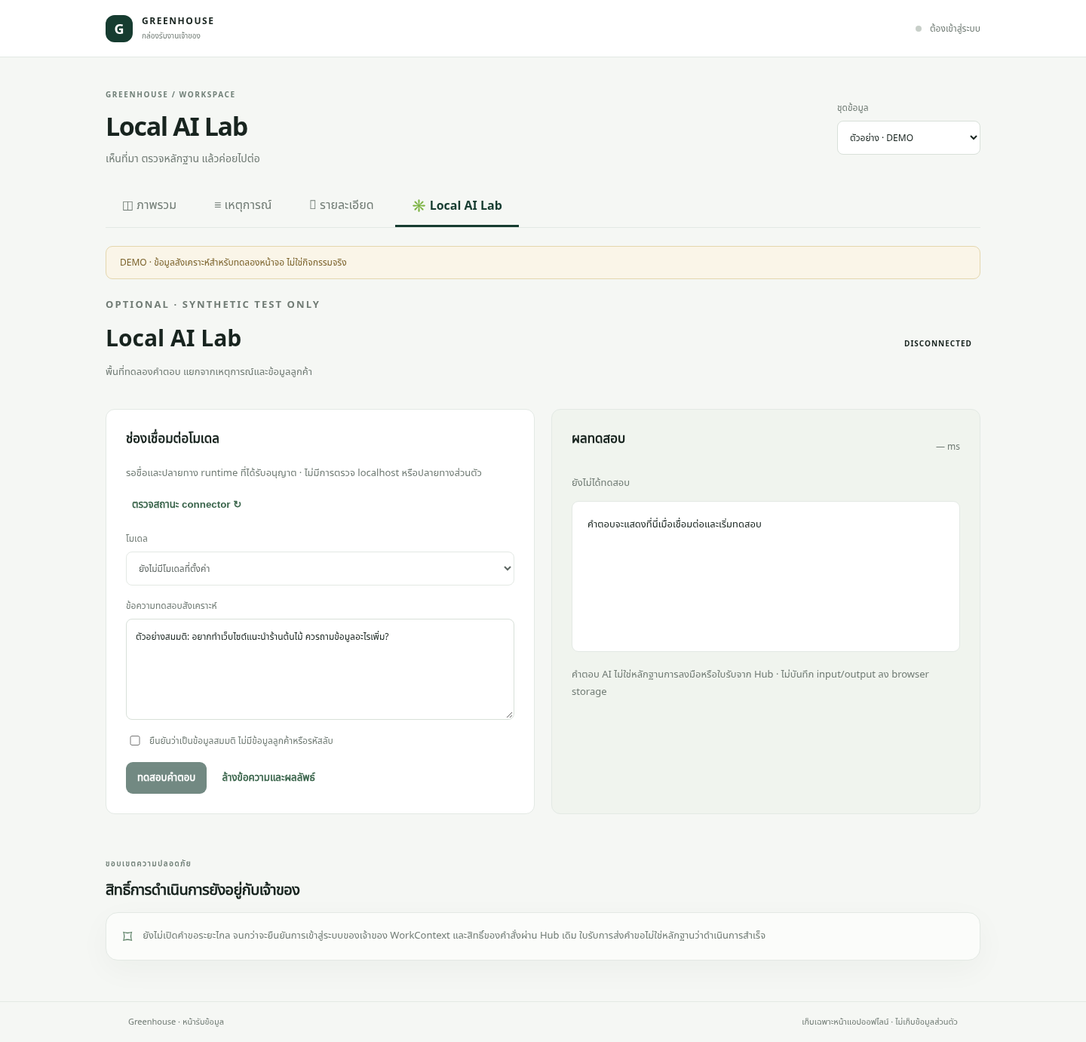
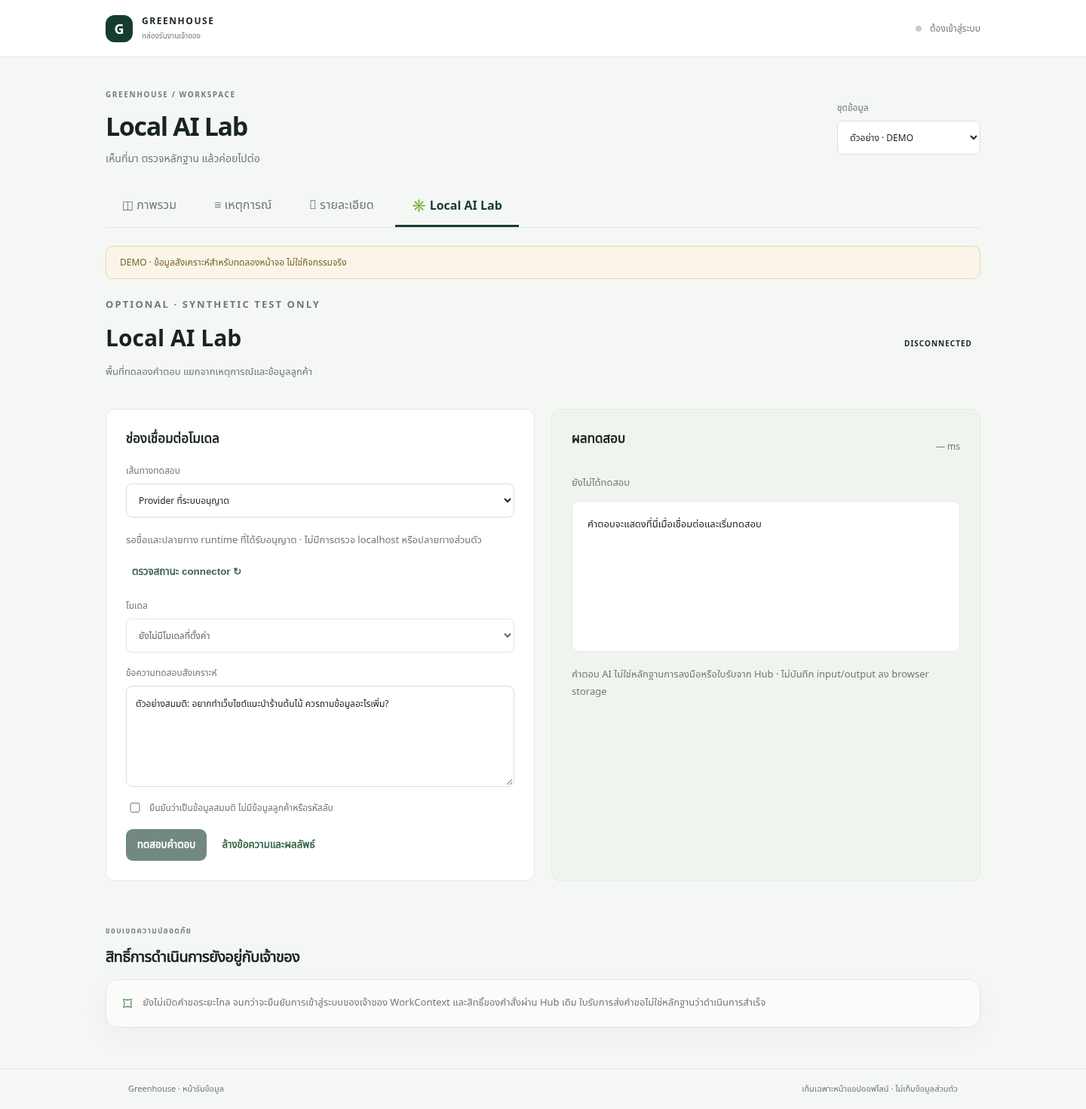
Add consent-gated Android loopback compatibility test path

diff --git a/docs/workspace-ui/preview.html b/docs/workspace-ui/preview.html
@@ -51,13 +51,80 @@
     <section data-panel="detail" hidden><div id="event-detail"></div></section>
     <section data-panel="ai" hidden>
       <div class="lab-heading"><div><p class="eyebrow">OPTIONAL · SYNTHETIC TEST ONLY</p><h2>Local AI Lab</h2><p>พื้นที่ทดลองคำตอบ แยกจากเหตุการณ์และข้อมูลลูกค้า</p></div><span class="pill" id="ai-state">DISCONNECTED</span></div>
-      <div class="lab-grid"><form id="ai-form" class="lab-card"><h3>ช่องเชื่อมต่อโมเดล</h3><p id="ai-connection">รอชื่อและปลายทาง runtime ที่ได้รับอนุญาต · ยังไม่มีการติดต่อเครื่องใด</p><button type="button" class="text-button" id="ai-refresh">ตรวจสถานะ connector ↻</button><label>โมเดล<select id="ai-model" disabled><option value="">ยังไม่มีโมเดลที่ตั้งค่า</option></select></label><label>ข้อความทดสอบสังเคราะห์<textarea id="ai-input" rows="5" maxlength="2000">ตัวอย่างสมมติ: อยากทำเว็บไซต์แนะนำร้านต้นไม้ ควรถามข้อมูลอะไรเพิ่ม?</textarea></label><label class="checkbox-label"><input id="ai-synthetic" type="checkbox"> ยืนยันว่าเป็นข้อมูลสมมติ ไม่มีข้อมูลลูกค้าหรือรหัสลับ</label><div class="lab-actions"><button class="button" id="ai-run" disabled>ทดสอบคำตอบ</button><button class="text-button" type="button" id="ai-clear">ล้างข้อความและผลลัพธ์</button></div></form><div class="lab-card output-card"><div class="panel-heading"><h3>ผลทดสอบ</h3><span id="ai-time">— ms</span></div><p id="ai-result-status" role="status">ยังไม่ได้ทดสอบ</p><pre id="ai-output">คำตอบจะแสดงที่นี่เมื่อเชื่อมต่อและเริ่มทดสอบ</pre><p class="boundary-note">คำตอบ AI ไม่ใช่หลักฐานการลงมือหรือใบรับจาก Hub · ไม่บันทึก input/output ลง browser storage</p></div></div>
+      <div class="lab-grid"><form id="ai-form" class="lab-card"><h3>ช่องเชื่อมต่อโมเดล</h3><label>เส้นทางทดสอบ<select id="ai-route"><option value="provider">Provider ที่ระบบอนุญาต</option><option value="device">HERMES บนอุปกรณ์นี้ · loopback</option></select></label><div id="device-config" hidden><p class="data-banner">ข้อมูลจากหน้าจอเจ้าของ: HERMES-R5 RUNNING · Android CPU · loopback-only · ยังไม่ทดสอบการเชื่อมต่อจากหน้านี้</p><dl><dt>ปลายทางที่เจ้าของระบุ</dt><dd><code>http://localhost:8000/v1</code></dd></dl><p>ต้องเปิดหน้านี้ในเบราว์เซอร์บน Android เครื่องเดียวกับ HERMES เท่านั้น ไม่มีการเรียกผ่าน Cloudflare</p><label>รูปแบบ API ที่ต้องการทดลอง<select id="device-protocol"><option value="">ยังไม่ยืนยัน protocol</option><option value="chat-completions-compatible">ทดลอง Chat Completions-compatible</option></select></label><label>Model ID ตาม API ของ runtime<input id="device-model" maxlength="120" autocomplete="off" placeholder="ระบุเมื่อยืนยัน Model ID แล้ว"></label><label class="checkbox-label"><input type="checkbox" id="device-confirm"> ยอมรับว่า /v1 อย่างเดียวไม่ยืนยัน protocol และจะทดสอบข้อมูลสมมติบนเครื่องนี้เท่านั้น</label><p>ไม่มีการสแกน /models หรือปลายทางอื่น · HTTPS → HTTP loopback อาจถูกเบราว์เซอร์ปฏิเสธ ต้องใช้สิทธิ์อุปกรณ์ที่รองรับตามปกติ ห้ามปิดระบบรักษาความปลอดภัยเพื่อฝืนเชื่อมต่อ</p></div><p id="ai-connection">รอชื่อและปลายทาง runtime ที่ได้รับอนุญาต · ยังไม่มีการติดต่อเครื่องใด</p><button type="button" class="text-button" id="ai-refresh">ตรวจสถานะ connector ↻</button><label>โมเดล<select id="ai-model" disabled><option value="">ยังไม่มีโมเดลที่ตั้งค่า</option></select></label><label>ข้อความทดสอบสังเคราะห์<textarea id="ai-input" rows="5" maxlength="2000">ตัวอย่างสมมติ: อยากทำเว็บไซต์แนะนำร้านต้นไม้ ควรถามข้อมูลอะไรเพิ่ม?</textarea></label><label class="checkbox-label"><input id="ai-synthetic" type="checkbox"> ยืนยันว่าเป็นข้อมูลสมมติ ไม่มีข้อมูลลูกค้าหรือรหัสลับ</label><div class="lab-actions"><button class="button" id="ai-run" disabled>ทดสอบคำตอบ</button><button class="text-button" type="button" id="ai-cancel" hidden>ยกเลิกการทดสอบ</button><button class="text-button" type="button" id="ai-clear">ล้างข้อความและผลลัพธ์</button></div></form><div class="lab-card output-card"><div class="panel-heading"><h3>ผลทดสอบ</h3><span id="ai-time">— ms</span></div><p id="ai-result-status" role="status">ยังไม่ได้ทดสอบ</p><pre id="ai-output">คำตอบจะแสดงที่นี่เมื่อเชื่อมต่อและเริ่มทดสอบ</pre><p class="boundary-note">คำตอบ AI ไม่ใช่หลักฐานการลงมือหรือใบรับจาก Hub · ไม่บันทึก input/output ลง browser storage</p></div></div>
     </section>
     <section class="section-head"><div><p class="eyebrow">ขอบเขตความปลอดภัย</p><h2>สิทธิ์การดำเนินการยังอยู่กับเจ้าของ</h2></div></section>
     <section class="safety"><span aria-hidden="true">⌑</span><p>ยังไม่เปิดคำขอระยะไกล จนกว่าจะยืนยันการเข้าสู่ระบบของเจ้าของ WorkContext และสิทธิ์ของคำสั่งผ่าน Hub เดิม ใบรับการส่งคำขอไม่ใช่หลักฐานว่าดำเนินการสำเร็จ</p></section>
   </main>
   <footer><span>Greenhouse · หน้ารับข้อมูล</span><span>เก็บเฉพาะหน้าแอปออฟไลน์ · ไม่เก็บข้อมูลส่วนตัว</span></footer>
   <script>globalThis.fetch=async(url)=>new Response(JSON.stringify(String(url).endsWith('/local-ai')?{configured:false,models:[],state:'DISCONNECTED'}:String(url).endsWith('/status')?{ownerSession:false,inboxReader:false}:{code:'OFFLINE_PREVIEW_ONLY'}),{status:String(url).includes('/requests/')?503:200,headers:{'content-type':'application/json'}});(() => {
+  // greenhouse/device-ai.mjs
+  var DEVICE_AI_BASE = "http://localhost:8000/v1";
+  var failure = (code, reachable = false) => Object.assign(new Error(code), { code, reachable });
+  async function testDeviceAI({ model, text: text2, protocol, syntheticOnly, protocolConfirmed, signal, fetchImpl = fetch, timeoutMs = 1e4 } = {}) {
+    if (protocol !== "chat-completions-compatible" || protocolConfirmed !== true || syntheticOnly !== true || typeof model !== "string" || !model.trim() || model.length > 120 || typeof text2 !== "string" || !text2.trim() || text2.length > 2e3) throw failure("DEVICE_CONFIG_REQUIRED");
+    const controller = new AbortController();
+    let timedOut = false;
+    const cancel = () => controller.abort();
+    if (signal?.aborted) throw failure("CANCELLED");
+    signal?.addEventListener("abort", cancel, { once: true });
+    const timer = setTimeout(() => {
+      timedOut = true;
+      controller.abort();
+    }, timeoutMs);
+    let reachable = false;
+    try {
+      const response = await fetchImpl(DEVICE_AI_BASE + "/chat/completions", {
+        method: "POST",
+        mode: "cors",
+        credentials: "omit",
+        redirect: "error",
+        cache: "no-store",
+        referrerPolicy: "no-referrer",
+        headers: { "content-type": "application/json" },
+        signal: controller.signal,
+        body: JSON.stringify({ model: model.trim(), messages: [{ role: "user", content: text2.trim() }], stream: false, max_tokens: 256 })
+      });
+      reachable = true;
+      if (!response.ok) throw failure("DEVICE_HTTP_" + response.status, true);
+      const reader = response.body?.getReader();
+      if (!reader) throw failure("DEVICE_PROTOCOL_UNVERIFIED", true);
+      let raw = "", size = 0;
+      const decoder = new TextDecoder();
+      try {
+        for (; ; ) {
+          const { value, done } = await reader.read();
+          if (done) break;
+          size += value.byteLength;
+          if (size > 65536) {
+            await reader.cancel();
+            throw failure("DEVICE_RESPONSE_TOO_LARGE", true);
+          }
+          raw += decoder.decode(value, { stream: true });
+        }
+        raw += decoder.decode();
+      } finally {
+        reader.releaseLock();
+      }
+      let body;
+      try {
+        body = JSON.parse(raw);
+      } catch {
+        throw failure("DEVICE_PROTOCOL_UNVERIFIED", true);
+      }
+      const content = body?.choices?.[0]?.message?.content;
+      if (typeof content !== "string" || !content.trim() || content.length > 4e3) throw failure("DEVICE_PROTOCOL_UNVERIFIED", true);
+      return { reply: content, modelStatus: "RESPONDED", executed: false, reachable: true, model: model.trim(), syntheticOnly: true };
+    } catch (error) {
+      if (controller.signal.aborted) throw failure(timedOut ? "TIMEOUT" : "CANCELLED", reachable);
+      if (error.code?.startsWith("DEVICE_")) throw error;
+      throw failure("DEVICE_BLOCKED_OR_UNREACHABLE", reachable);
+    } finally {
+      clearTimeout(timer);
+      signal?.removeEventListener("abort", cancel);
+    }
+  }
+
   // greenhouse/workspace-model.mjs
   var demoEvents = [
     { title: "\u0E04\u0E33\u0E02\u0E2D\u0E40\u0E27\u0E47\u0E1A\u0E44\u0E0B\u0E15\u0E4C\u0E15\u0E31\u0E27\u0E2D\u0E22\u0E48\u0E32\u0E07", sourceEventId: "demo-event-001", correlationId: "demo-request-001", category: "REQUEST_SUBMITTED", ownerSource: "demo-shop", occurredAt: "2026-10-23T08:15:00.000Z", persistedAt: "2026-10-23T08:15:00.000Z", evidence: ["demo://request-001/submitted"], receiptStatus: "MISSING", evidenceScope: "DEMO", freshness: "UNKNOWN" },
@@ -87,6 +154,7 @@
   var aiConfig = null;
   var aiBusy = false;
   var readSequence = 0;
+  var aiController = null;
   var items = () => mode === "demo" ? demoEvents : liveItems;
   var format = (value) => Number.isFinite(Date.parse(value)) ? new Date(value).toLocaleString("th-TH", { dateStyle: "medium", timeStyle: "short" }) : "\u0E22\u0E31\u0E07\u0E44\u0E21\u0E48\u0E21\u0E35\u0E02\u0E49\u0E2D\u0E21\u0E39\u0E25";
   function view(name) {
@@ -170,8 +238,24 @@
     }
   });
   function updateRun() {
-    $("#ai-run").disabled = aiBusy || !aiConfig?.configured || !aiConfig?.csrfToken || !$("#ai-synthetic").checked || !$("#ai-model").value || !$("#ai-input").value.trim();
+    const device = $("#ai-route").value === "device";
+    const ready = device ? $("#device-protocol").value === "chat-completions-compatible" && $("#device-confirm").checked && $("#device-model").value.trim() : aiConfig?.configured && aiConfig?.csrfToken && $("#ai-model").value;
+    $("#ai-run").disabled = aiBusy || !ready || !$("#ai-synthetic").checked || !$("#ai-input").value.trim();
   }
+  function deviceMode() {
+    const device = $("#ai-route").value === "device";
+    $("#device-config").hidden = !device;
+    $("#ai-refresh").hidden = device;
+    $("#ai-model").closest("label").hidden = device;
+    if (device) {
+      $("#ai-state").textContent = "DEVICE \xB7 PROTOCOL UNVERIFIED";
+      $("#ai-connection").textContent = "\u0E2A\u0E16\u0E32\u0E19\u0E30\u0E01\u0E32\u0E23\u0E40\u0E0A\u0E37\u0E48\u0E2D\u0E21\u0E15\u0E48\u0E2D\u0E08\u0E32\u0E01\u0E40\u0E1A\u0E23\u0E32\u0E27\u0E4C\u0E40\u0E0B\u0E2D\u0E23\u0E4C: \u0E22\u0E31\u0E07\u0E44\u0E21\u0E48\u0E17\u0E14\u0E2A\u0E2D\u0E1A \xB7 \u0E2A\u0E16\u0E32\u0E19\u0E30 RUNNING \u0E21\u0E32\u0E08\u0E32\u0E01\u0E2B\u0E19\u0E49\u0E32\u0E08\u0E2D\u0E40\u0E08\u0E49\u0E32\u0E02\u0E2D\u0E07 \u0E44\u0E21\u0E48\u0E43\u0E0A\u0E48 health check";
+    } else aiStatus();
+    updateRun();
+  }
+  $("#ai-route").addEventListener("change", deviceMode);
+  for (const selector of ["#device-protocol", "#device-model", "#device-confirm"]) $(selector).addEventListener("input", updateRun);
+  $("#ai-cancel").addEventListener("click", () => aiController?.abort());
   async function aiStatus() {
     $("#ai-refresh").disabled = true;
     aiConfig = null;
@@ -212,31 +296,51 @@
     event.preventDefault();
     if ($("#ai-run").disabled) return;
     aiBusy = true;
+    aiController = new AbortController();
     updateRun();
     $("#ai-clear").disabled = true;
     $("#ai-refresh").disabled = true;
-    $("#ai-result-status").textContent = "\u0E01\u0E33\u0E25\u0E31\u0E07\u0E17\u0E14\u0E2A\u0E2D\u0E1A\u2026";
-    $("#ai-output").textContent = "\u0E23\u0E2D\u0E04\u0E33\u0E15\u0E2D\u0E1A\u0E08\u0E32\u0E01 provider \u0E17\u0E35\u0E48\u0E44\u0E14\u0E49\u0E23\u0E31\u0E1A\u0E2D\u0E19\u0E38\u0E0D\u0E32\u0E15";
+    $("#ai-route").disabled = true;
+    $("#ai-cancel").hidden = false;
+    $("#ai-result-status").textContent = "\u0E01\u0E33\u0E25\u0E31\u0E07\u0E17\u0E14\u0E2A\u0E2D\u0E1A inference\u2026";
+    $("#ai-output").textContent = "\u0E22\u0E31\u0E07\u0E44\u0E21\u0E48\u0E21\u0E35\u0E04\u0E33\u0E15\u0E2D\u0E1A \xB7 \u0E01\u0E32\u0E23\u0E40\u0E23\u0E34\u0E48\u0E21\u0E17\u0E14\u0E2A\u0E2D\u0E1A\u0E44\u0E21\u0E48\u0E43\u0E0A\u0E48\u0E01\u0E32\u0E23\u0E22\u0E37\u0E19\u0E22\u0E31\u0E19\u0E27\u0E48\u0E32\u0E40\u0E0A\u0E37\u0E48\u0E2D\u0E21\u0E15\u0E48\u0E2D\u0E41\u0E25\u0E49\u0E27";
     const started = performance.now();
+    let timeout, providerTimedOut = false;
     try {
-      const response = await fetch("/api/greenhouse/local-ai", { method: "POST", credentials: "same-origin", cache: "no-store", headers: { "content-type": "application/json", "x-csrf-token": aiConfig.csrfToken }, body: JSON.stringify({ model: $("#ai-model").value, text: $("#ai-input").value, syntheticOnly: true }), signal: AbortSignal.timeout(12e3) });
-      const body = await response.json();
-      if (!response.ok) throw Error("TEST_UNAVAILABLE");
+      let body;
+      if ($("#ai-route").value === "device") {
+        body = await testDeviceAI({ model: $("#device-model").value, text: $("#ai-input").value, protocol: $("#device-protocol").value, protocolConfirmed: $("#device-confirm").checked, syntheticOnly: $("#ai-synthetic").checked, signal: aiController.signal });
+        $("#ai-connection").textContent = "\u0E44\u0E14\u0E49\u0E23\u0E31\u0E1A HTTP response \u0E41\u0E25\u0E30\u0E04\u0E33\u0E15\u0E2D\u0E1A\u0E15\u0E32\u0E21\u0E23\u0E39\u0E1B\u0E41\u0E1A\u0E1A\u0E17\u0E35\u0E48\u0E40\u0E25\u0E37\u0E2D\u0E01\u0E08\u0E32\u0E01 loopback \u0E1A\u0E19\u0E2D\u0E38\u0E1B\u0E01\u0E23\u0E13\u0E4C\u0E19\u0E35\u0E49 \xB7 \u0E44\u0E21\u0E48\u0E43\u0E0A\u0E48\u0E2B\u0E25\u0E31\u0E01\u0E10\u0E32\u0E19\u0E01\u0E32\u0E23\u0E25\u0E07\u0E21\u0E37\u0E2D";
+      } else {
+        timeout = setTimeout(() => {
+          providerTimedOut = true;
+          aiController.abort();
+        }, 12e3);
+        const response = await fetch("/api/greenhouse/local-ai", { method: "POST", credentials: "same-origin", cache: "no-store", headers: { "content-type": "application/json", "x-csrf-token": aiConfig.csrfToken }, body: JSON.stringify({ model: $("#ai-model").value, text: $("#ai-input").value, syntheticOnly: true }), signal: aiController.signal });
+        body = await response.json();
+        if (!response.ok) throw Error("TEST_UNAVAILABLE");
+      }
       if (typeof body.reply !== "string" || typeof body.modelStatus !== "string" || body.executed !== false) throw Error("TEST_INVALID");
       $("#ai-output").textContent = body.reply;
       $("#ai-result-status").textContent = body.modelStatus === "RESPONDED" ? "\u0E42\u0E21\u0E40\u0E14\u0E25\u0E15\u0E2D\u0E1A\u0E41\u0E25\u0E49\u0E27 \xB7 \u0E44\u0E21\u0E48\u0E43\u0E0A\u0E48\u0E1C\u0E25\u0E01\u0E32\u0E23\u0E25\u0E07\u0E21\u0E37\u0E2D" : body.modelStatus + " \xB7 \u0E04\u0E33\u0E15\u0E2D\u0E1A\u0E2A\u0E33\u0E23\u0E2D\u0E07\u0E08\u0E32\u0E01 policy \u0E44\u0E21\u0E48\u0E43\u0E0A\u0E48\u0E04\u0E33\u0E15\u0E2D\u0E1A\u0E42\u0E21\u0E40\u0E14\u0E25";
       $("#ai-state").textContent = body.modelStatus;
       $("#overview-ai").textContent = body.modelStatus === "RESPONDED" ? "\u0E15\u0E2D\u0E1A\u0E43\u0E19\u0E01\u0E32\u0E23\u0E17\u0E14\u0E2A\u0E2D\u0E1A\u0E41\u0E25\u0E49\u0E27" : "\u0E43\u0E0A\u0E49\u0E04\u0E33\u0E15\u0E2D\u0E1A\u0E2A\u0E33\u0E23\u0E2D\u0E07";
     } catch (error) {
-      $("#ai-result-status").textContent = error.name === "TimeoutError" ? "TIMEOUT \xB7 \u0E42\u0E21\u0E40\u0E14\u0E25\u0E22\u0E31\u0E07\u0E44\u0E21\u0E48\u0E15\u0E2D\u0E1A" : "ERROR \xB7 \u0E22\u0E31\u0E07\u0E22\u0E37\u0E19\u0E22\u0E31\u0E19\u0E1C\u0E25\u0E17\u0E14\u0E2A\u0E2D\u0E1A\u0E44\u0E21\u0E48\u0E44\u0E14\u0E49";
-      $("#ai-output").textContent = "\u0E25\u0E2D\u0E07\u0E43\u0E2B\u0E21\u0E48\u0E2B\u0E25\u0E31\u0E07\u0E15\u0E23\u0E27\u0E08\u0E01\u0E32\u0E23\u0E40\u0E0A\u0E37\u0E48\u0E2D\u0E21\u0E15\u0E48\u0E2D \xB7 \u0E22\u0E31\u0E07\u0E43\u0E0A\u0E49\u0E2B\u0E19\u0E49\u0E32\u0E40\u0E2B\u0E15\u0E38\u0E01\u0E32\u0E23\u0E13\u0E4C\u0E15\u0E48\u0E2D\u0E44\u0E14\u0E49";
-      $("#ai-state").textContent = "TEST_ERROR";
+      const code = error.code || (providerTimedOut ? "TIMEOUT" : aiController.signal.aborted ? "CANCELLED" : "TEST_ERROR");
+      $("#ai-result-status").textContent = code + " \xB7 \u0E22\u0E31\u0E07\u0E44\u0E21\u0E48\u0E22\u0E37\u0E19\u0E22\u0E31\u0E19\u0E1C\u0E25 inference";
+      $("#ai-output").textContent = code === "DEVICE_BLOCKED_OR_UNREACHABLE" ? "\u0E40\u0E1A\u0E23\u0E32\u0E27\u0E4C\u0E40\u0E0B\u0E2D\u0E23\u0E4C\u0E2D\u0E32\u0E08\u0E1A\u0E25\u0E47\u0E2D\u0E01 loopback \u0E2B\u0E23\u0E37\u0E2D server \u0E2D\u0E32\u0E08\u0E40\u0E02\u0E49\u0E32\u0E16\u0E36\u0E07\u0E44\u0E21\u0E48\u0E44\u0E14\u0E49 \u0E44\u0E21\u0E48\u0E2A\u0E23\u0E38\u0E1B\u0E27\u0E48\u0E32 HERMES \u0E2B\u0E22\u0E38\u0E14\u0E17\u0E33\u0E07\u0E32\u0E19 \u0E41\u0E25\u0E30\u0E44\u0E21\u0E48\u0E40\u0E1B\u0E25\u0E35\u0E48\u0E22\u0E19 auth/CORS/\u0E40\u0E04\u0E23\u0E37\u0E2D\u0E02\u0E48\u0E32\u0E22" : code === "CANCELLED" ? "\u0E22\u0E01\u0E40\u0E25\u0E34\u0E01\u0E41\u0E25\u0E49\u0E27 \xB7 \u0E44\u0E21\u0E48\u0E44\u0E14\u0E49\u0E22\u0E37\u0E19\u0E22\u0E31\u0E19\u0E1C\u0E25\u0E17\u0E14\u0E2A\u0E2D\u0E1A" : "\u0E15\u0E23\u0E27\u0E08 protocol \u0E41\u0E25\u0E30\u0E01\u0E32\u0E23\u0E2D\u0E19\u0E38\u0E0D\u0E32\u0E15\u0E1A\u0E19\u0E2D\u0E38\u0E1B\u0E01\u0E23\u0E13\u0E4C\u0E15\u0E32\u0E21\u0E1B\u0E01\u0E15\u0E34 \xB7 \u0E22\u0E31\u0E07\u0E43\u0E0A\u0E49\u0E2B\u0E19\u0E49\u0E32\u0E40\u0E2B\u0E15\u0E38\u0E01\u0E32\u0E23\u0E13\u0E4C\u0E15\u0E48\u0E2D\u0E44\u0E14\u0E49";
+      if ($("#ai-route").value === "device") $("#ai-connection").textContent = error.reachable ? "\u0E44\u0E14\u0E49\u0E23\u0E31\u0E1A HTTP response \u0E41\u0E25\u0E49\u0E27 \u0E41\u0E15\u0E48\u0E22\u0E31\u0E07\u0E44\u0E21\u0E48\u0E22\u0E37\u0E19\u0E22\u0E31\u0E19\u0E23\u0E39\u0E1B\u0E41\u0E1A\u0E1A\u0E2B\u0E23\u0E37\u0E2D\u0E1C\u0E25 inference" : "\u0E22\u0E31\u0E07\u0E44\u0E21\u0E48\u0E22\u0E37\u0E19\u0E22\u0E31\u0E19\u0E01\u0E32\u0E23\u0E40\u0E0A\u0E37\u0E48\u0E2D\u0E21\u0E15\u0E48\u0E2D\u0E08\u0E32\u0E01\u0E40\u0E1A\u0E23\u0E32\u0E27\u0E4C\u0E40\u0E0B\u0E2D\u0E23\u0E4C";
+      $("#ai-state").textContent = code;
       $("#overview-ai").textContent = "\u0E17\u0E14\u0E2A\u0E2D\u0E1A\u0E22\u0E31\u0E07\u0E44\u0E21\u0E48\u0E1E\u0E23\u0E49\u0E2D\u0E21";
     } finally {
+      clearTimeout(timeout);
       $("#ai-time").textContent = Math.round(performance.now() - started) + " ms";
       aiBusy = false;
+      aiController = null;
       $("#ai-clear").disabled = false;
       $("#ai-refresh").disabled = false;
+      $("#ai-route").disabled = false;
+      $("#ai-cancel").hidden = true;
       updateRun();
     }
   });

diff --git a/greenhouse/index.html b/greenhouse/index.html
@@ -48,7 +48,7 @@
     <section data-panel="detail" hidden><div id="event-detail"></div></section>
     <section data-panel="ai" hidden>
       <div class="lab-heading"><div><p class="eyebrow">OPTIONAL · SYNTHETIC TEST ONLY</p><h2>Local AI Lab</h2><p>พื้นที่ทดลองคำตอบ แยกจากเหตุการณ์และข้อมูลลูกค้า</p></div><span class="pill" id="ai-state">DISCONNECTED</span></div>
-      <div class="lab-grid"><form id="ai-form" class="lab-card"><h3>ช่องเชื่อมต่อโมเดล</h3><p id="ai-connection">รอชื่อและปลายทาง runtime ที่ได้รับอนุญาต · ยังไม่มีการติดต่อเครื่องใด</p><button type="button" class="text-button" id="ai-refresh">ตรวจสถานะ connector ↻</button><label>โมเดล<select id="ai-model" disabled><option value="">ยังไม่มีโมเดลที่ตั้งค่า</option></select></label><label>ข้อความทดสอบสังเคราะห์<textarea id="ai-input" rows="5" maxlength="2000">ตัวอย่างสมมติ: อยากทำเว็บไซต์แนะนำร้านต้นไม้ ควรถามข้อมูลอะไรเพิ่ม?</textarea></label><label class="checkbox-label"><input id="ai-synthetic" type="checkbox"> ยืนยันว่าเป็นข้อมูลสมมติ ไม่มีข้อมูลลูกค้าหรือรหัสลับ</label><div class="lab-actions"><button class="button" id="ai-run" disabled>ทดสอบคำตอบ</button><button class="text-button" type="button" id="ai-clear">ล้างข้อความและผลลัพธ์</button></div></form><div class="lab-card output-card"><div class="panel-heading"><h3>ผลทดสอบ</h3><span id="ai-time">— ms</span></div><p id="ai-result-status" role="status">ยังไม่ได้ทดสอบ</p><pre id="ai-output">คำตอบจะแสดงที่นี่เมื่อเชื่อมต่อและเริ่มทดสอบ</pre><p class="boundary-note">คำตอบ AI ไม่ใช่หลักฐานการลงมือหรือใบรับจาก Hub · ไม่บันทึก input/output ลง browser storage</p></div></div>
+      <div class="lab-grid"><form id="ai-form" class="lab-card"><h3>ช่องเชื่อมต่อโมเดล</h3><label>เส้นทางทดสอบ<select id="ai-route"><option value="provider">Provider ที่ระบบอนุญาต</option><option value="device">HERMES บนอุปกรณ์นี้ · loopback</option></select></label><div id="device-config" hidden><p class="data-banner">ข้อมูลจากหน้าจอเจ้าของ: HERMES-R5 RUNNING · Android CPU · loopback-only · ยังไม่ทดสอบการเชื่อมต่อจากหน้านี้</p><dl><dt>ปลายทางที่เจ้าของระบุ</dt><dd><code>http://localhost:8000/v1</code></dd></dl><p>ต้องเปิดหน้านี้ในเบราว์เซอร์บน Android เครื่องเดียวกับ HERMES เท่านั้น ไม่มีการเรียกผ่าน Cloudflare</p><label>รูปแบบ API ที่ต้องการทดลอง<select id="device-protocol"><option value="">ยังไม่ยืนยัน protocol</option><option value="chat-completions-compatible">ทดลอง Chat Completions-compatible</option></select></label><label>Model ID ตาม API ของ runtime<input id="device-model" maxlength="120" autocomplete="off" placeholder="ระบุเมื่อยืนยัน Model ID แล้ว"></label><label class="checkbox-label"><input type="checkbox" id="device-confirm"> ยอมรับว่า /v1 อย่างเดียวไม่ยืนยัน protocol และจะทดสอบข้อมูลสมมติบนเครื่องนี้เท่านั้น</label><p>ไม่มีการสแกน /models หรือปลายทางอื่น · HTTPS → HTTP loopback อาจถูกเบราว์เซอร์ปฏิเสธ ต้องใช้สิทธิ์อุปกรณ์ที่รองรับตามปกติ ห้ามปิดระบบรักษาความปลอดภัยเพื่อฝืนเชื่อมต่อ</p></div><p id="ai-connection">รอชื่อและปลายทาง runtime ที่ได้รับอนุญาต · ยังไม่มีการติดต่อเครื่องใด</p><button type="button" class="text-button" id="ai-refresh">ตรวจสถานะ connector ↻</button><label>โมเดล<select id="ai-model" disabled><option value="">ยังไม่มีโมเดลที่ตั้งค่า</option></select></label><label>ข้อความทดสอบสังเคราะห์<textarea id="ai-input" rows="5" maxlength="2000">ตัวอย่างสมมติ: อยากทำเว็บไซต์แนะนำร้านต้นไม้ ควรถามข้อมูลอะไรเพิ่ม?</textarea></label><label class="checkbox-label"><input id="ai-synthetic" type="checkbox"> ยืนยันว่าเป็นข้อมูลสมมติ ไม่มีข้อมูลลูกค้าหรือรหัสลับ</label><div class="lab-actions"><button class="button" id="ai-run" disabled>ทดสอบคำตอบ</button><button class="text-button" type="button" id="ai-cancel" hidden>ยกเลิกการทดสอบ</button><button class="text-button" type="button" id="ai-clear">ล้างข้อความและผลลัพธ์</button></div></form><div class="lab-card output-card"><div class="panel-heading"><h3>ผลทดสอบ</h3><span id="ai-time">— ms</span></div><p id="ai-result-status" role="status">ยังไม่ได้ทดสอบ</p><pre id="ai-output">คำตอบจะแสดงที่นี่เมื่อเชื่อมต่อและเริ่มทดสอบ</pre><p class="boundary-note">คำตอบ AI ไม่ใช่หลักฐานการลงมือหรือใบรับจาก Hub · ไม่บันทึก input/output ลง browser storage</p></div></div>
     </section>
     <section class="section-head"><div><p class="eyebrow">ขอบเขตความปลอดภัย</p><h2>สิทธิ์การดำเนินการยังอยู่กับเจ้าของ</h2></div></section>
     <section class="safety"><span aria-hidden="true">⌑</span><p>ยังไม่เปิดคำขอระยะไกล จนกว่าจะยืนยันการเข้าสู่ระบบของเจ้าของ WorkContext และสิทธิ์ของคำสั่งผ่าน Hub เดิม ใบรับการส่งคำขอไม่ใช่หลักฐานว่าดำเนินการสำเร็จ</p></section>

diff --git a/greenhouse/sw.js b/greenhouse/sw.js
@@ -1,5 +1,5 @@
-const CACHE = 'greenhouse-shell-v2';
-const SHELL = ['/greenhouse/', '/greenhouse/app.css', '/greenhouse/app.js', '/greenhouse/ui-state.mjs', '/greenhouse/workspace.mjs', '/greenhouse/workspace-model.mjs', '/greenhouse/manifest.webmanifest', '/greenhouse/icon.svg'];
+const CACHE = 'greenhouse-shell-v3';
+const SHELL = ['/greenhouse/', '/greenhouse/app.css', '/greenhouse/app.js', '/greenhouse/ui-state.mjs', '/greenhouse/workspace.mjs', '/greenhouse/device-ai.mjs', '/greenhouse/workspace-model.mjs', '/greenhouse/manifest.webmanifest', '/greenhouse/icon.svg'];
 self.addEventListener('install', event => event.waitUntil(caches.open(CACHE).then(cache => cache.addAll(SHELL)).then(() => self.skipWaiting())));
 self.addEventListener('activate', event => event.waitUntil(caches.keys().then(keys => Promise.all(keys.filter(key => key !== CACHE).map(key => caches.delete(key)))).then(() => self.clients.claim())));
 self.addEventListener('fetch', event => {

diff --git a/docs/workspace-ui/README.md b/docs/workspace-ui/README.md
@@ -94,7 +94,7 @@ compare owner_hash, which is not present in that API response. Receipt MISSING.
 - Provider boundary tests: default off; allowlist/schema; synthetic-only;
   authorization/CSRF/origin; redaction; reply; error/timeout/unsafe output fallback;
   actual existing Node HTTP injection path. No actual AI server involved.
-- Full regression: **116/116 tests, zero skips**; syntax/diff checks and **16/16** offline policy drills pass.
+- Full regression: **120/120 tests, zero skips**; syntax/diff checks and **16/16** offline policy drills pass.
 - Existing Pages Functions compile locally. No deployment/upload occurred.
 
 Run using an installed Playwright package/Chromium (no dependency install needed
@@ -116,3 +116,52 @@ explicit fixtures for responses; they are not production/model acceptance.
 Remaining gates: approved runtime details/provider binding; authorized same-origin
 owner readback adapter; separately approved preview/deployment; GO Office UI
 cutover. Live chain, production auth and real model acceptance remain unproven.
+
+## Android device loopback continuation
+
+Owner-provided screenshot reports HERMES-R5 RUNNING on Android CPU, API base
+`http://localhost:8000/v1`, auth off, CORS all origins, client all, and explicit
+loopback-only accessibility on that device (not Wi-Fi). Reported load was 7.9s,
+request count zero. This is owner screenshot context, not this environment's
+health check; no device connection/inference has been verified.
+
+The Local AI panel now has an explicit **HERMES on this device / loopback** path.
+The user must open the workspace in a browser on that same Android device.
+No Cloudflare/Node server fetches localhost. No runtime/private-network discovery
+or port exposure is introduced. The exact URL is fixed; there is no free-text
+host, credentials field, /models probe, redirect following or alternate target.
+
+No available repository runtime documentation verified the API contract. `/v1`
+alone is insufficient. Therefore the initial state is PROTOCOL UNVERIFIED, model
+ID is blank, and inference is disabled. The user must explicitly select the
+Chat Completions-compatible **experiment**, enter a confirmed runtime Model ID,
+and confirm both protocol uncertainty and synthetic-only input before clicking.
+This tests only POST `/v1/chat/completions` with one synthetic user message,
+stream:false and bounded output. It does not assert HERMES supports that route.
+
+The device path runs only in the browser with credentials omitted, redirect
+rejection, normal CORS mode and no referrer. No bearer/CSRF from the server
+provider path is sent to the device. Browser HTTPS-to-HTTP/private-network
+policies may reject it; use only supported normal device permissions, never
+bypass security. No runtime auth/CORS/client/port settings were changed.
+The local preview CSP permits only the exact reported `http://localhost:8000`
+origin in addition to self; it adds no wildcard or other private destinations.
+No deployed policy was modified.
+
+Separate UI states distinguish not-tested, HTTP-reached-but-protocol-unverified,
+blocked-or-unreachable, inference response, timeout and cancellation. A browser
+failure is not presented as proof HERMES stopped. A returned synthetic model
+reply is not a Work action or Hub receipt. The generic authorized server-provider
+path remains intact. Abort/cancel and a 10-second device timeout bound each test.
+
+[Device-loopback configuration screenshot](screenshots/07-device-loopback-unverified.png)
+shows the unverified/disabled state. Browser screenshot testing made **no** device
+request; network behavior was tested only with an injected fetch implementation
+(no socket). Tests cover no-fetch before consent/config, one fixed destination,
+no credentials/discovery, response schema/size, HTTP/protocol vs network failure,
+timeout and cancellation. Real Android/browser/runtime inference is pending.
+
+The previous Library upload remains requested. Its prepared transfer helper
+failed before preparation at hosted-app tool discovery (network failure); no
+Library IDs exist yet. Keep all screenshots and the updated offline artifact
+for transfer through a working Library connection; this is separate from deploy.
